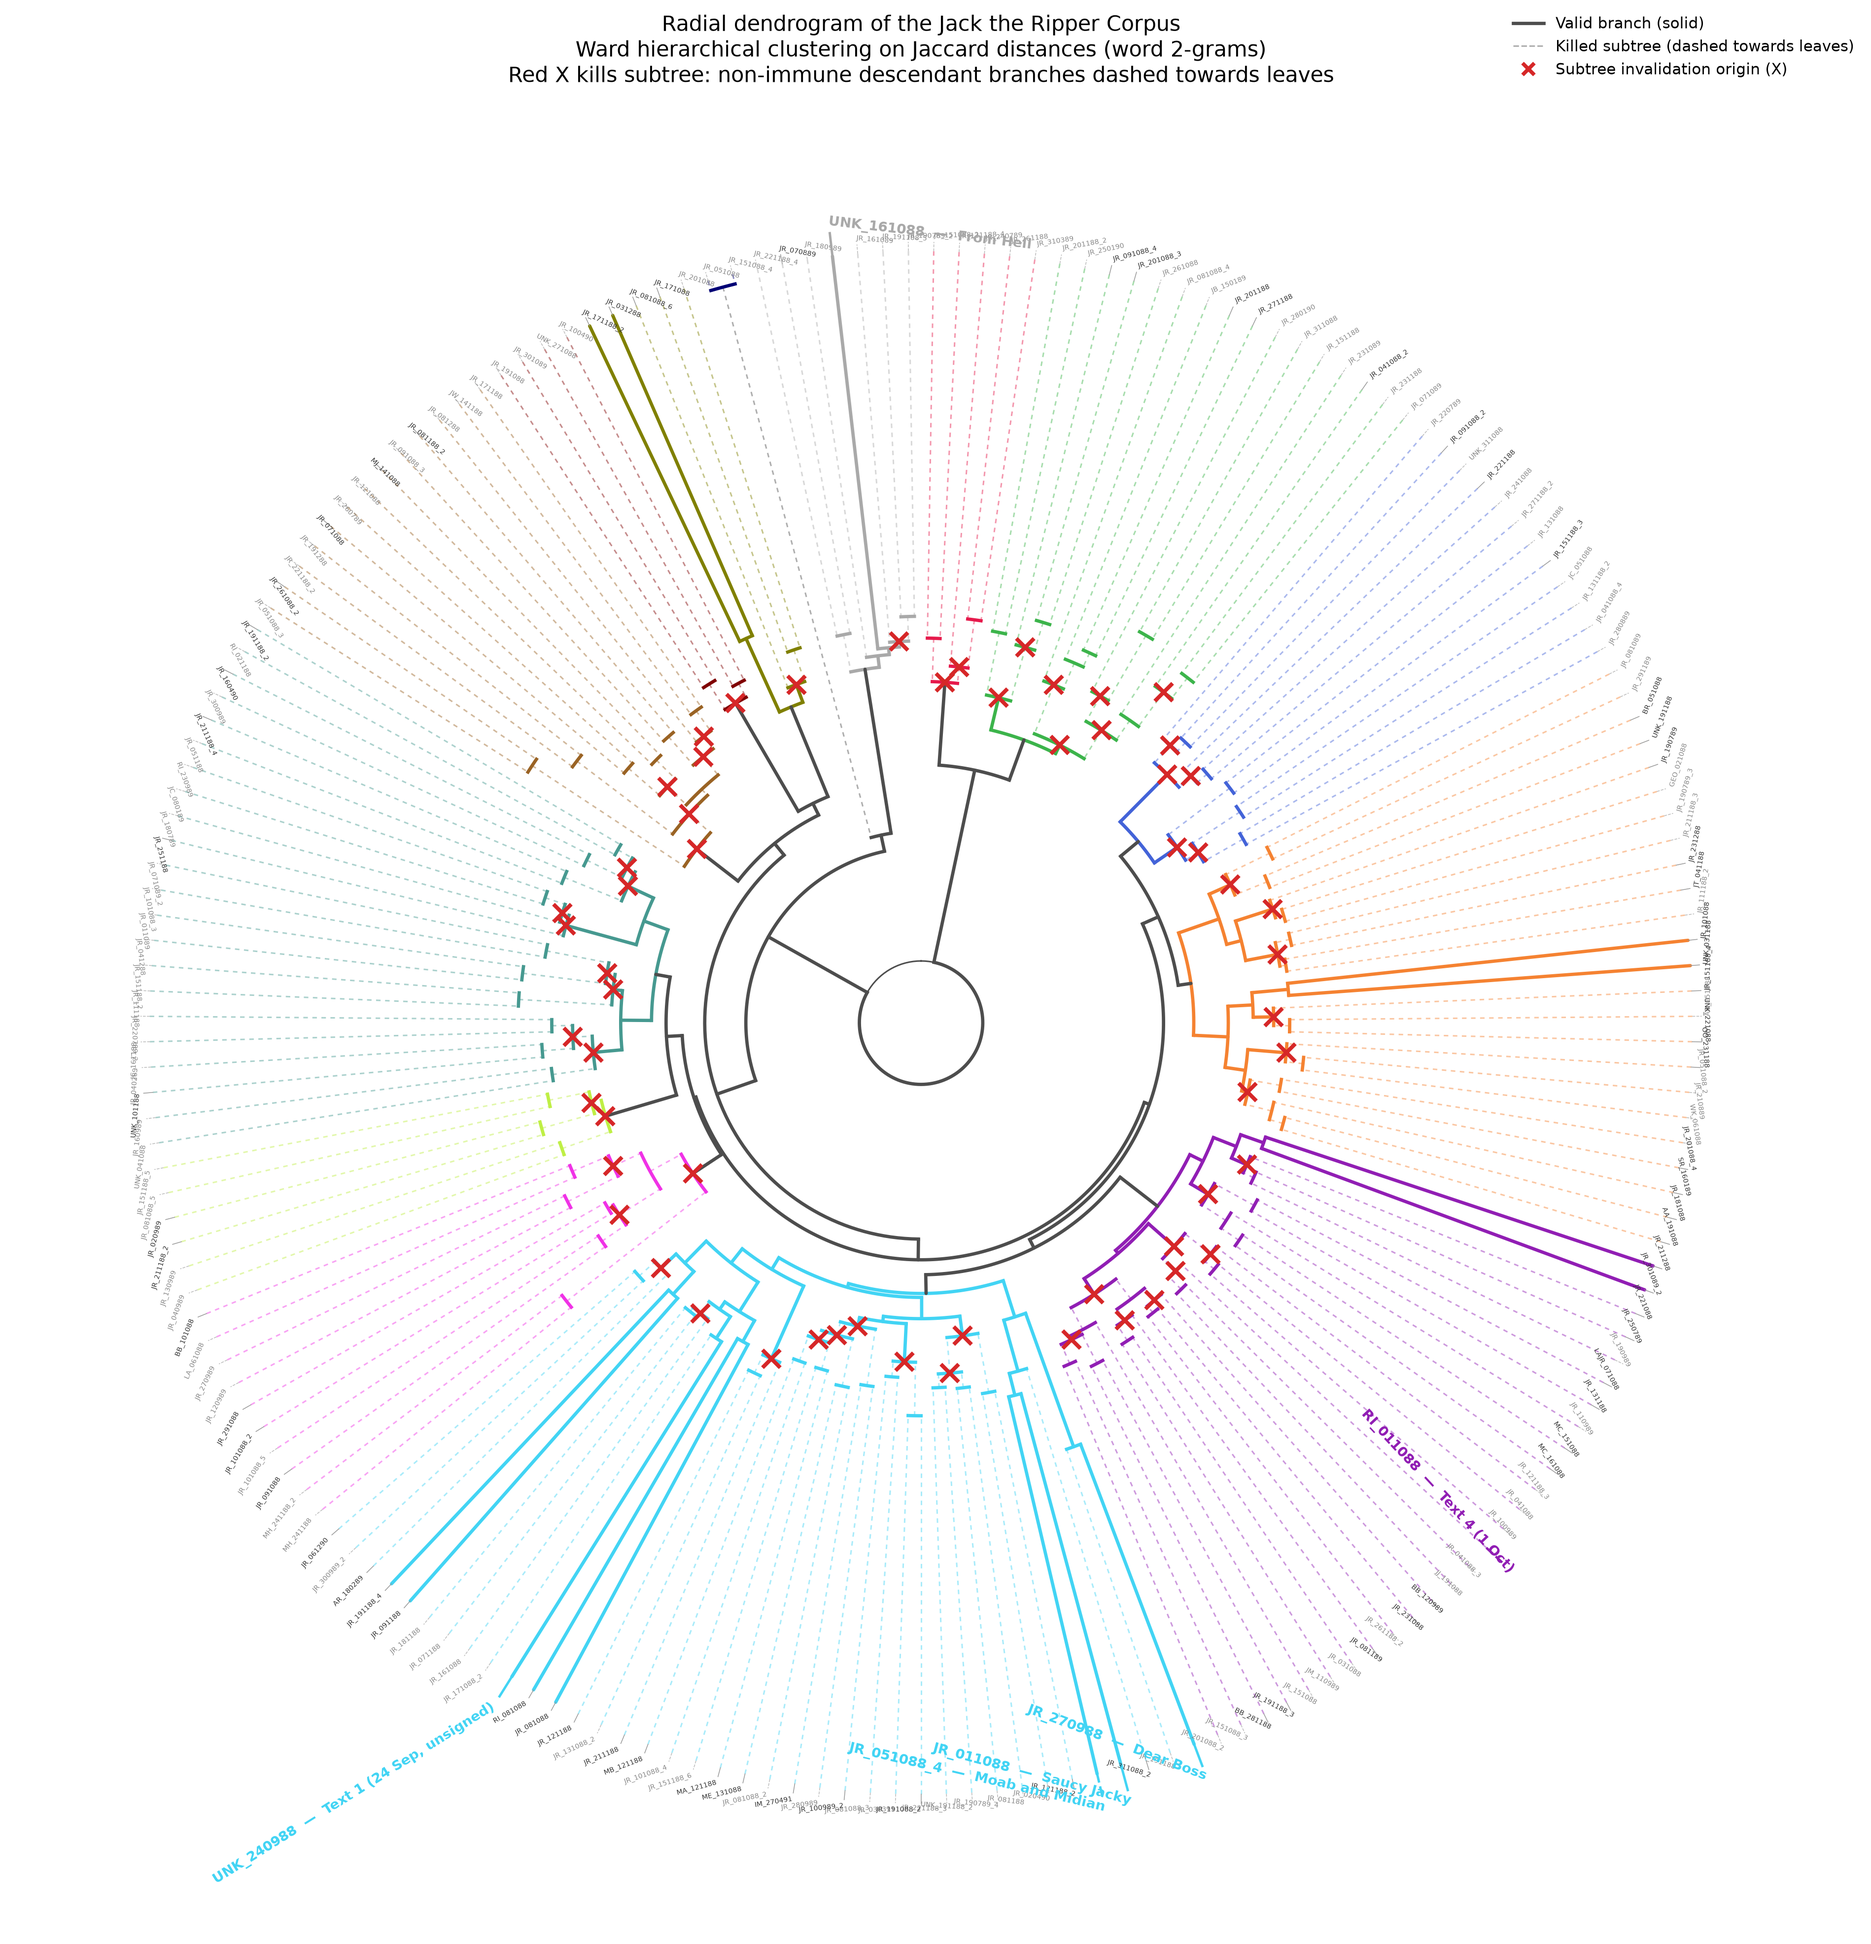
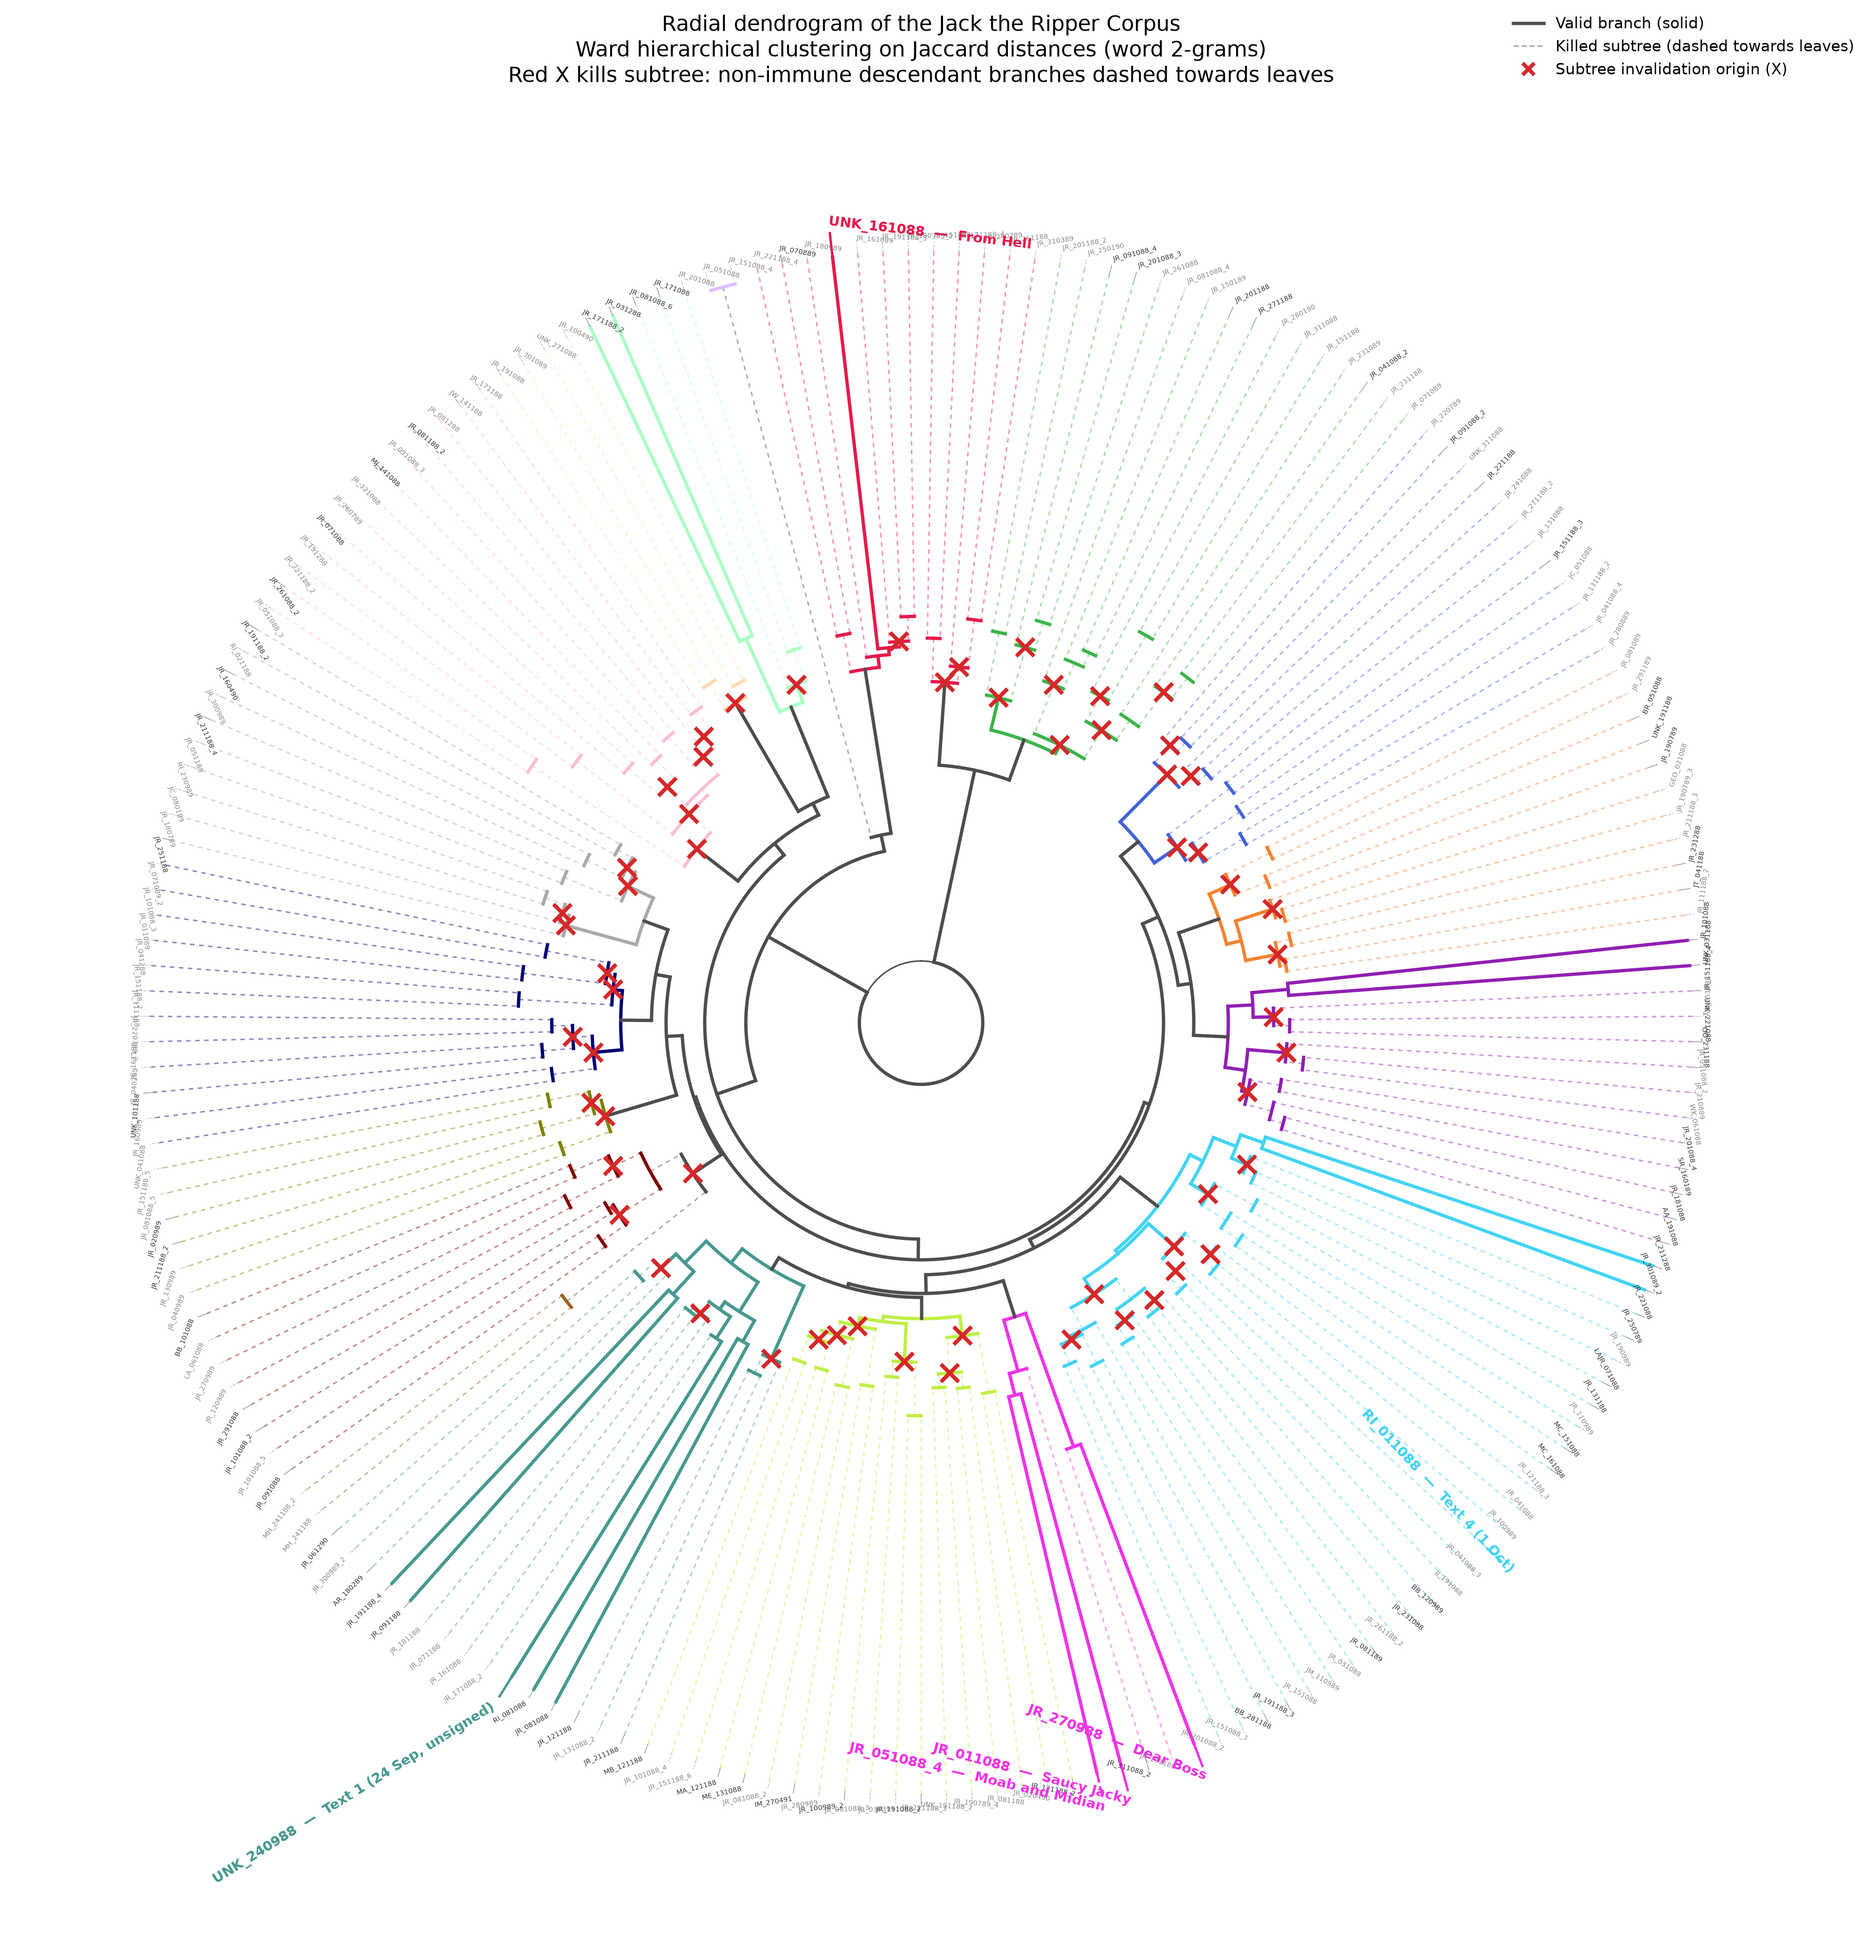
Add files via upload

diff --git a/dendrogram.py b/dendrogram.py
@@ -24,7 +24,7 @@ CSV_PATH = 'jack_the_ripper_corpus.csv'
 OUTPUT_PATH = 'radial_dendrogram.png'
 MIN_DOC_FREQ = 2       # a bigram must appear in at least this many texts
 N_EXCLUDED_TOP = 8     # exclude the N most frequent bigrams (per the paper)
-COLOR_THRESHOLD_FRAC = 0.72  # fraction of max merge height used to color main clusters
+COLOR_THRESHOLD_FRAC = 0.69  # fraction of max merge height used to color main clusters
 
 # --- DASH & NODE INVALIDATION CONFIG ---
 CUSTOM_DASH_NODES = None  # Target specific Node IDs, or None for all poison leaves
